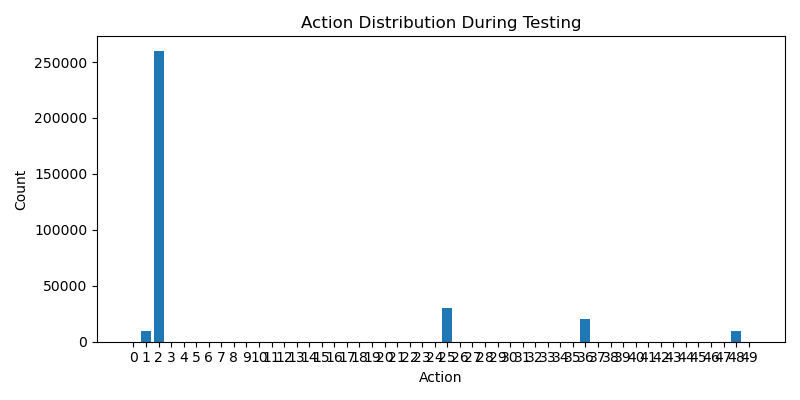
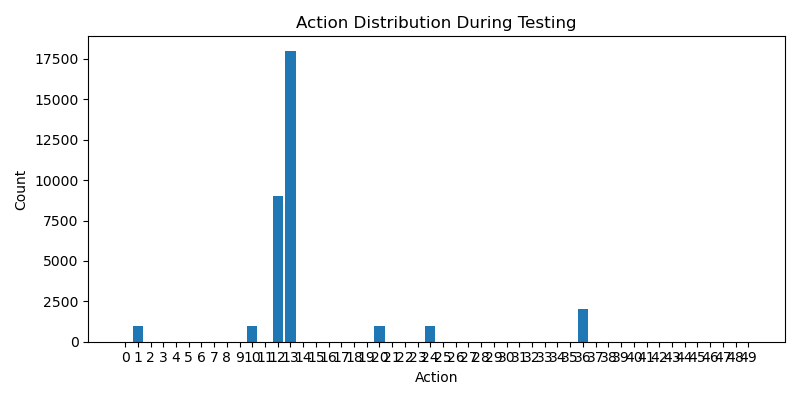
add test_reward_per_episode plot

diff --git a/DQN_train.py b/DQN_train.py
@@ -39,7 +39,7 @@ decay_rate: float = 0.09
 test_episodes = 1000
 
 # model
-train: bool = True
+train: bool = False
 test: bool = True
 
 input_size = 250
@@ -177,20 +177,22 @@ def test_dqn(trainloader, num_episodes: int, decay: float):
     print(f"total reward over {test_episodes} episodes: {sum(total_rewards)}")
     print(f"Average reward over {test_episodes} episodes: {sum(total_rewards) / len(total_rewards)}")
 
-    # plt.figure(figsize=(8, 4))
-    # plt.bar([str(a) for a in env.action_space], action_distribution)
-    # plt.xlabel("Action")
-    # plt.ylabel("Count")
-    # plt.title("Action Distribution During Testing")
-    # plt.tight_layout()
-    # plt.savefig(f"test_action_distribution_{num_episodes}_{decay}.png")
-    # plt.show()
+    plt.figure(figsize=(8, 4))
+    plt.bar([str(a) for a in env.action_space], action_distribution)
+    plt.xlabel("Action")
+    plt.ylabel("Count")
+    plt.title("Action Distribution During Testing")
+    plt.tight_layout()
+    plt.savefig(f"test_action_distribution_{num_episodes}_{decay}.png")
+    plt.show()
+
     plt.figure(figsize=(10, 5))
     plt.plot(total_rewards)
     plt.xlabel("Episode")
     plt.ylabel("Reward")
     plt.title("DQN Test Reward per Episode")
     plt.tight_layout()
+    plt.savefig(f"test_reward_per_episode_{num_episodes}_{decay}.png")
     plt.show()
 
 
